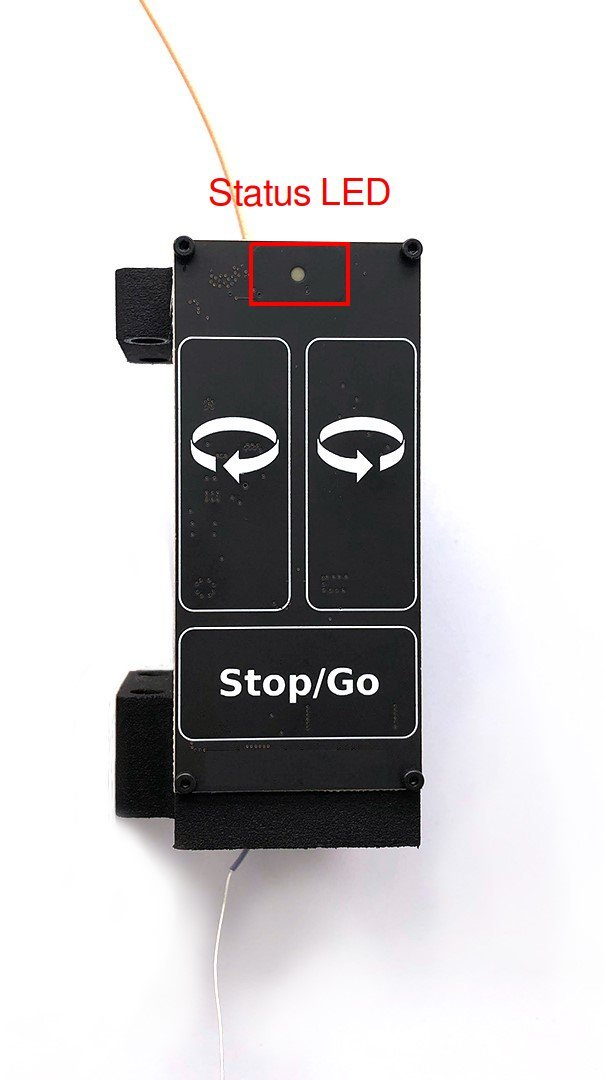
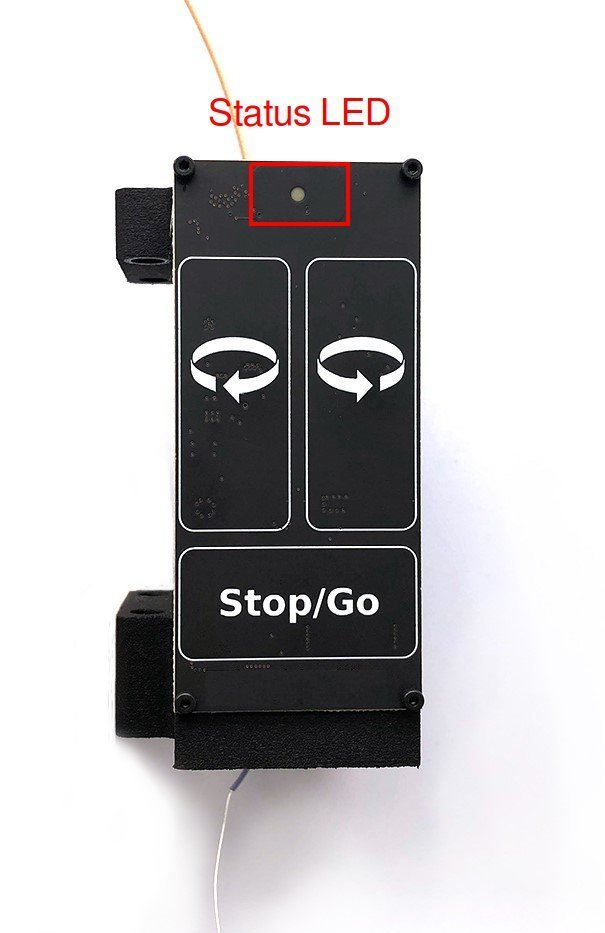
Small updates for maintainability
- Move away from raw HTML to RST
- Crop and rotate some images to make them clearer

diff --git a/source/coax-commutator/user-guide/manual-control.rst b/source/coax-commutator/user-guide/manual-control.rst
@@ -2,60 +2,58 @@
 
 Manual Control
 *******************************************************
-This section details how to control the commutator using the commutator's
-buttons. This is useful for situations such as when the user desires to quickly
-stop automated commutation or untwist the tether without disconnecting it from
-the head stage or removing the head stage from the behaving animal.
+The front panel of the commutator has four buttons for manual control.
+They are useful for situations such as
+
+- Quickly halting motor operation 
+- Screwing in the tether's SMA connector by turning the motor
+- Untwisting the tether due an error during automated commutator
 
 .. important:: Manual controls override any ongoing remote controls. In other
    words, remote commands sent when a button is being pressed are ignored and
    cleared.
+   
+.. note:: The buttons on the front panel are capacitive sensor buttons. They are not mechanical so they do not provide tactile or auditory feedback.   
 
-.. raw:: html
+.. image:: ../../_static/images/commutator-buttons-numbered.png
+    :width: 50%
+    :align: center
+    :alt: Commutator front image
 
-    <div class="container">
-        <div class="row">
-            There are four buttons on the commutator front panel:
-        </div>
-        <div class="row">
-                <div class="col-lg-5 col-md-5 col-sm-6 col-xs-6 m-0 p-0">
-                    <img src="../../_static/images/commutator-front-buttons-numbered.png" alt="Commutator front image">
-                </div>
-                <div class="col-lg-7 col-md-7 col-sm-6 col-xs-6 d-flex flex-column m-0 p-0">
-                    <div class="card-body">
-                        <ol class="simple">
-                            <li style="color:red"><p><b>Stop/Go Button:</b></p></li>
-                                <ul class="simple">
-                                    <li> If the commutator is already disabled (solid red LED), touching the stop/go button for >0.5 seconds enables the commutator by being pressed </li>
-                                    <li> If the commutator is already enabled (solid green LED), touching the stop/go for any time at all disables the commutator instantly by being pressed </li>
-                                </ul>
-                            <li style="color:red"><p><b>Direction Buttons (CW and CCW):</b></p></li>
-                                <ul class="simple">
-                                    <li> Touching the direction button changes the direction of the commutator's rotation to the direction indicated by the respective button's label. This only happens while the commutator is in its enabled state. </li>
-                                </ul>
-                            <li style="color:red"><p><b>LED Button:</b></p></li>
-                                <ul class="simple">
-                                    <li> If LED feedback function is already disabled, touching the LED button for >0.5 seconds enables the LED feedback function </li>
-                                    <li> If LED feedback function is already enabled, touching the LED button for any time at all disables the LED feedback function </li>
-                                </ul>
-                        </ol>
-                    </div>
-            </div>
-        </div>
-    </div>
+:1. Stop/Go: 	  Press to toggle commutator enable/disable.
 
-.. NOTE:: The buttons on the front panel are capacitive sensor buttons. They are not mechanical so they do not provide tactile or auditory feedback.
+		  - *Disabled* (LED is red): All motor output will halt instantly, and motor
+		    driver is powered down. Pressing directional buttons in the stopped state
+		    will not work. All target turns provided via remote calls will be
+		    cleared, such that re-enabling the motor will not result in the commutator
+		    re-engaging an old target position. In this state, pressing and holding
+		    the Stop/Go button for > 0.5 second, or sending the approriate remote
+		    command will enable the device.
+		  - *Enabled* (LED  green): When in the *enabled* state, the LED will be
+		    green and the motor can be turned via button presses or RPCs . In this
+		    state, pressing the Stop/Go button will instantly disable the device.
 
-.. raw:: html
+:2. Directional: Press to manually control the motor rotation in the direction indicated on
+              	 each button when the commutator is *Enabled*. These inputs take
+              	 precedence over and override ongoing remote motor control.  When
+              	 pressed, all target turns provided via remote control will be
+              	 cleared, such that releasing them will not result in the
+              	 commutator re-engaging an old target position. Remote commands
+              	 sent when a button is being pressed are ignored.
 
-    <div class="container">
-        <div class="row">
-            <p>There is additionally a (<span style="color:red">1.</span>) <strong>Reset Button</strong> on the commutator's side which power cycles the commutator when pressed:</p>
-        </div>
-        <div class="row">
-            <div class="col">
-                <img src="../../_static/images/commutator-side-button-numbered.png" alt="Commutator side image">
-            </div>
-        </div>
-    </div>
+:3. LED: Pressing the LED turns it off (e.g for cases where it presents an
+     	 unwanted visual stimulus). Pressing the LED button for > 0.5 seconds enables the LED.
+
+
+
+Reset Button
+______________________________________________
+On the side of the device, there is a hard **Reset Button**. Pressing this button will reset the internal microcontroller's firmware. This might be useful if you are having trouble with USB connectivity or you have created custom firmware that are having trouble uploading to the device.
+
+
+.. image:: ../../_static/images/commutator-side-button-numbered.png
+    :width: 50%
+    :align: center
+    :alt: Commutator side image
+
 

diff --git a/source/coax-commutator/developer-guide/index.rst b/source/coax-commutator/developer-guide/index.rst
@@ -77,8 +77,29 @@ dread of lead times by purchasing from us. And you get to support `open ephys <h
 Teensy
 **************************************************************
 
+Firmware
+-------------------------------------
+
+- `Arduino IDE <https://www.arduino.cc/en/Main/Software>`__
+- `Teensyduino add-on <https://www.pjrc.com/teensy/td_download.html>`__
+- `AccelStepper <https://www.airspayce.com/mikem/arduino/AccelStepper/>`__
+- `Arduino JSON <https://arduinojson.org/>`__
+
+The firmware can be uploaded to the device using the `Arduino
+IDE <https://www.arduino.cc/en/Main/Software>`__. 
+
+.. note:: You will need to add the `Teensyduino add-on
+   <https://www.pjrc.com/teensy/teensyduino.html>`__ to the Arduino IDE to program
+   the Teensy. When installing Teensyduino, you should opt to install all of the
+   bundled libraries as well. This takes care of installing :code:`AccelStepper`
+   library rather than having to install it manually. ArduinoJSON can be
+   installed through the Arduino IDE's package manager.
+
 .. TODO:: insert photo of teensy. unnecessary, but why not? Any other photos on this page?
 
+The controller firmware runs on a `Teensy
+3.2 <https://www.pjrc.com/store/teensy32.html>`__. To compile this firmware and
+program the microcontroller, you need the following dependencies:
 The Teensy is a microcontroller development board (much like the Arduino for those who are familiar). It is the brains
 of the commutator. To control the commutator via computer, it helps to learn to interface with the Teensy. To do that:
 
